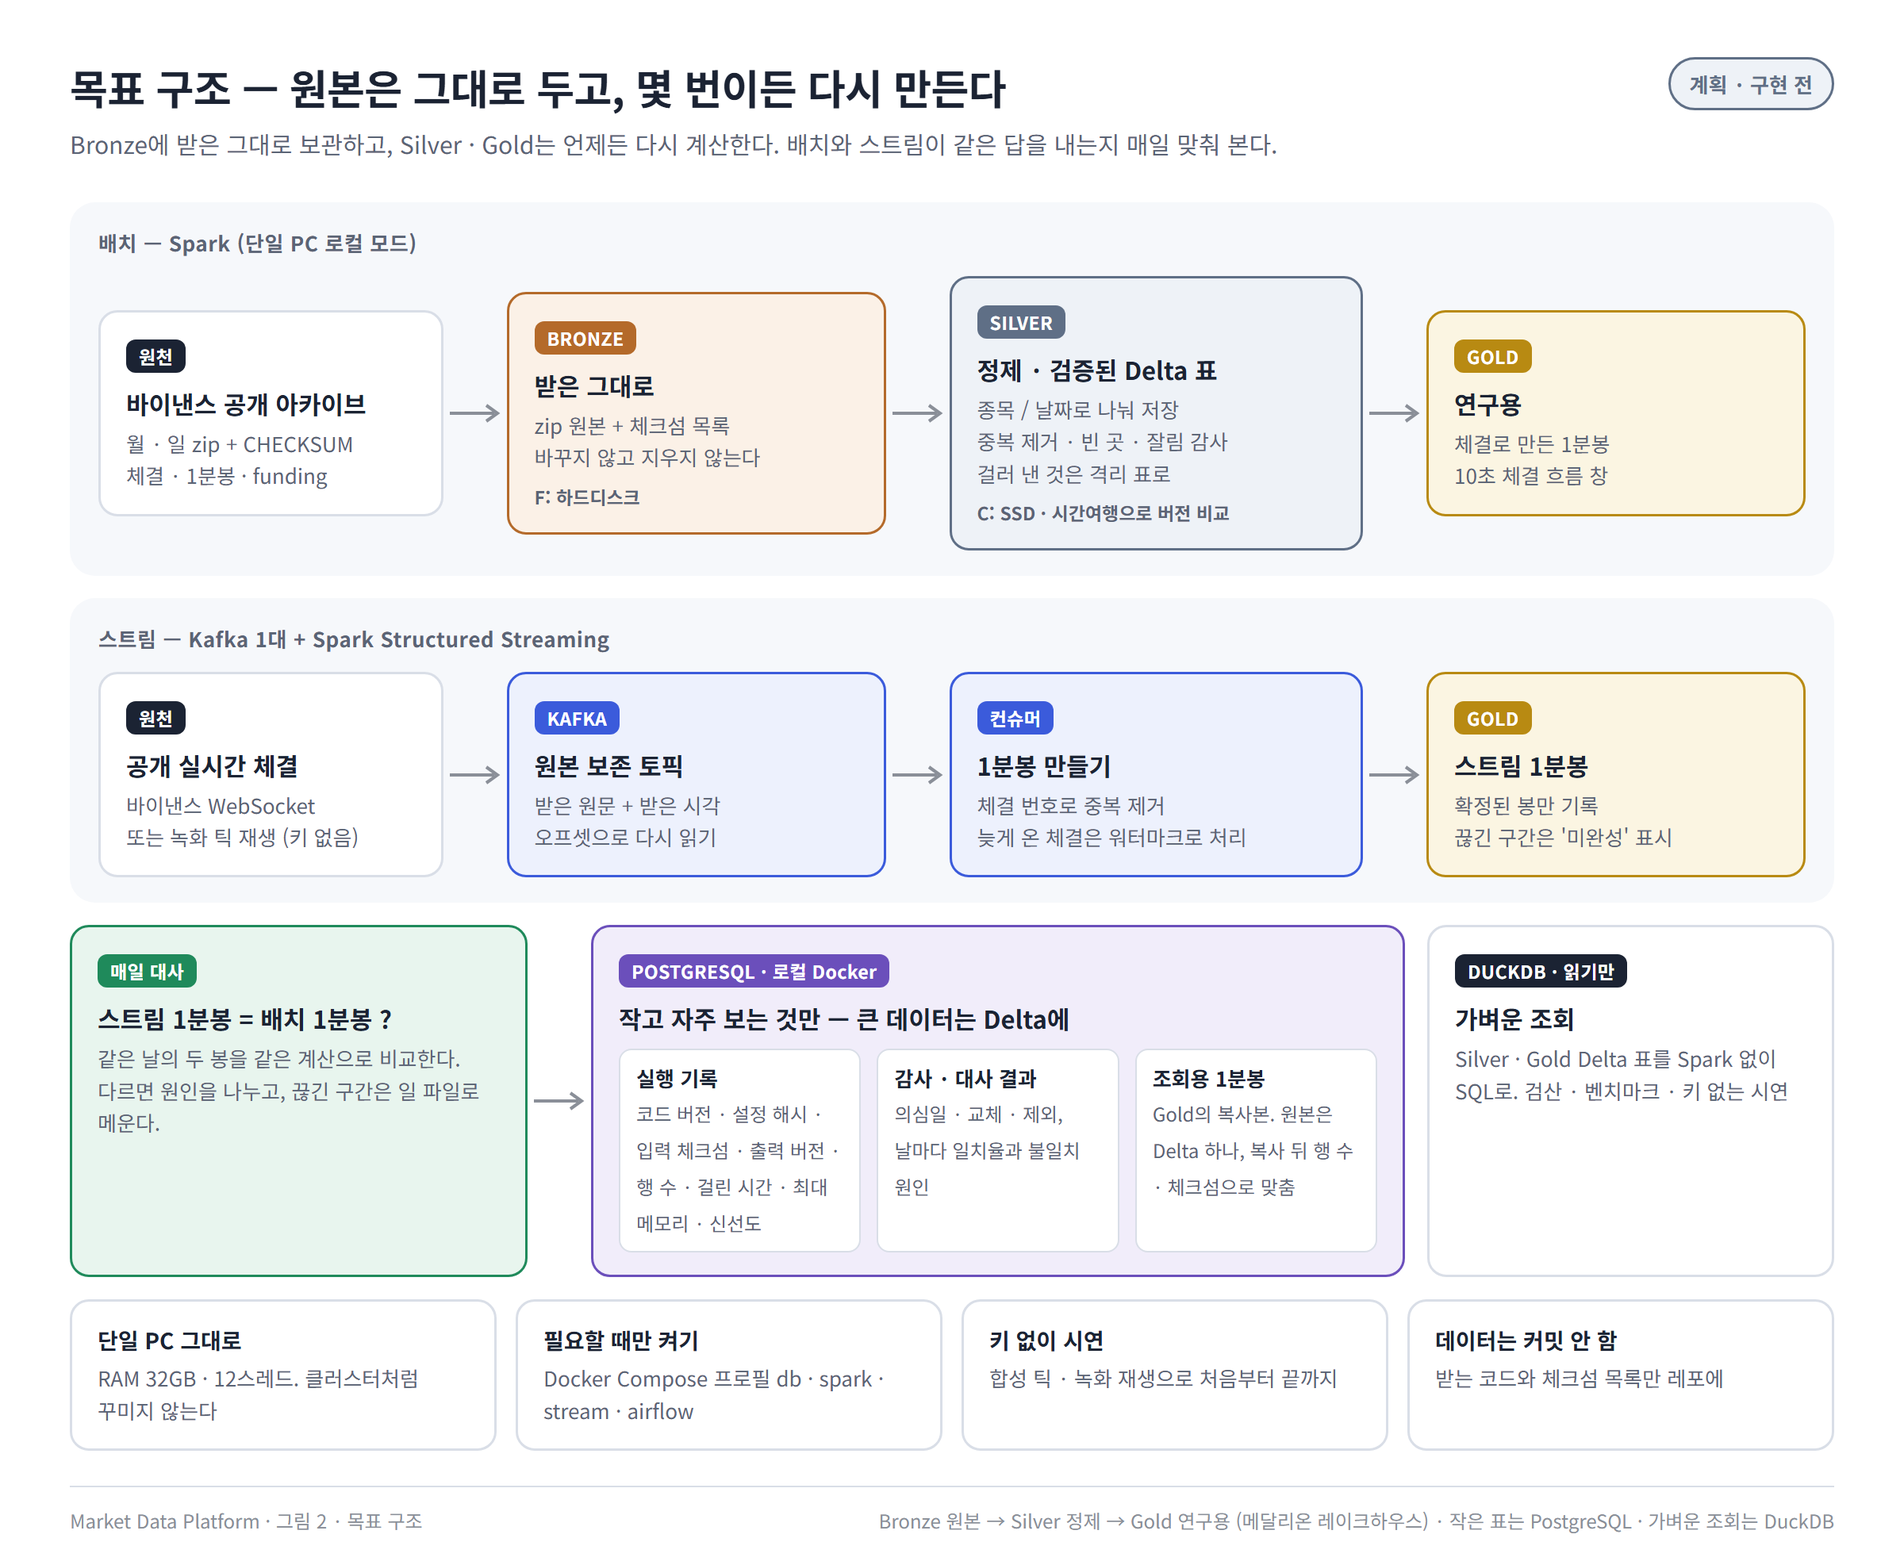
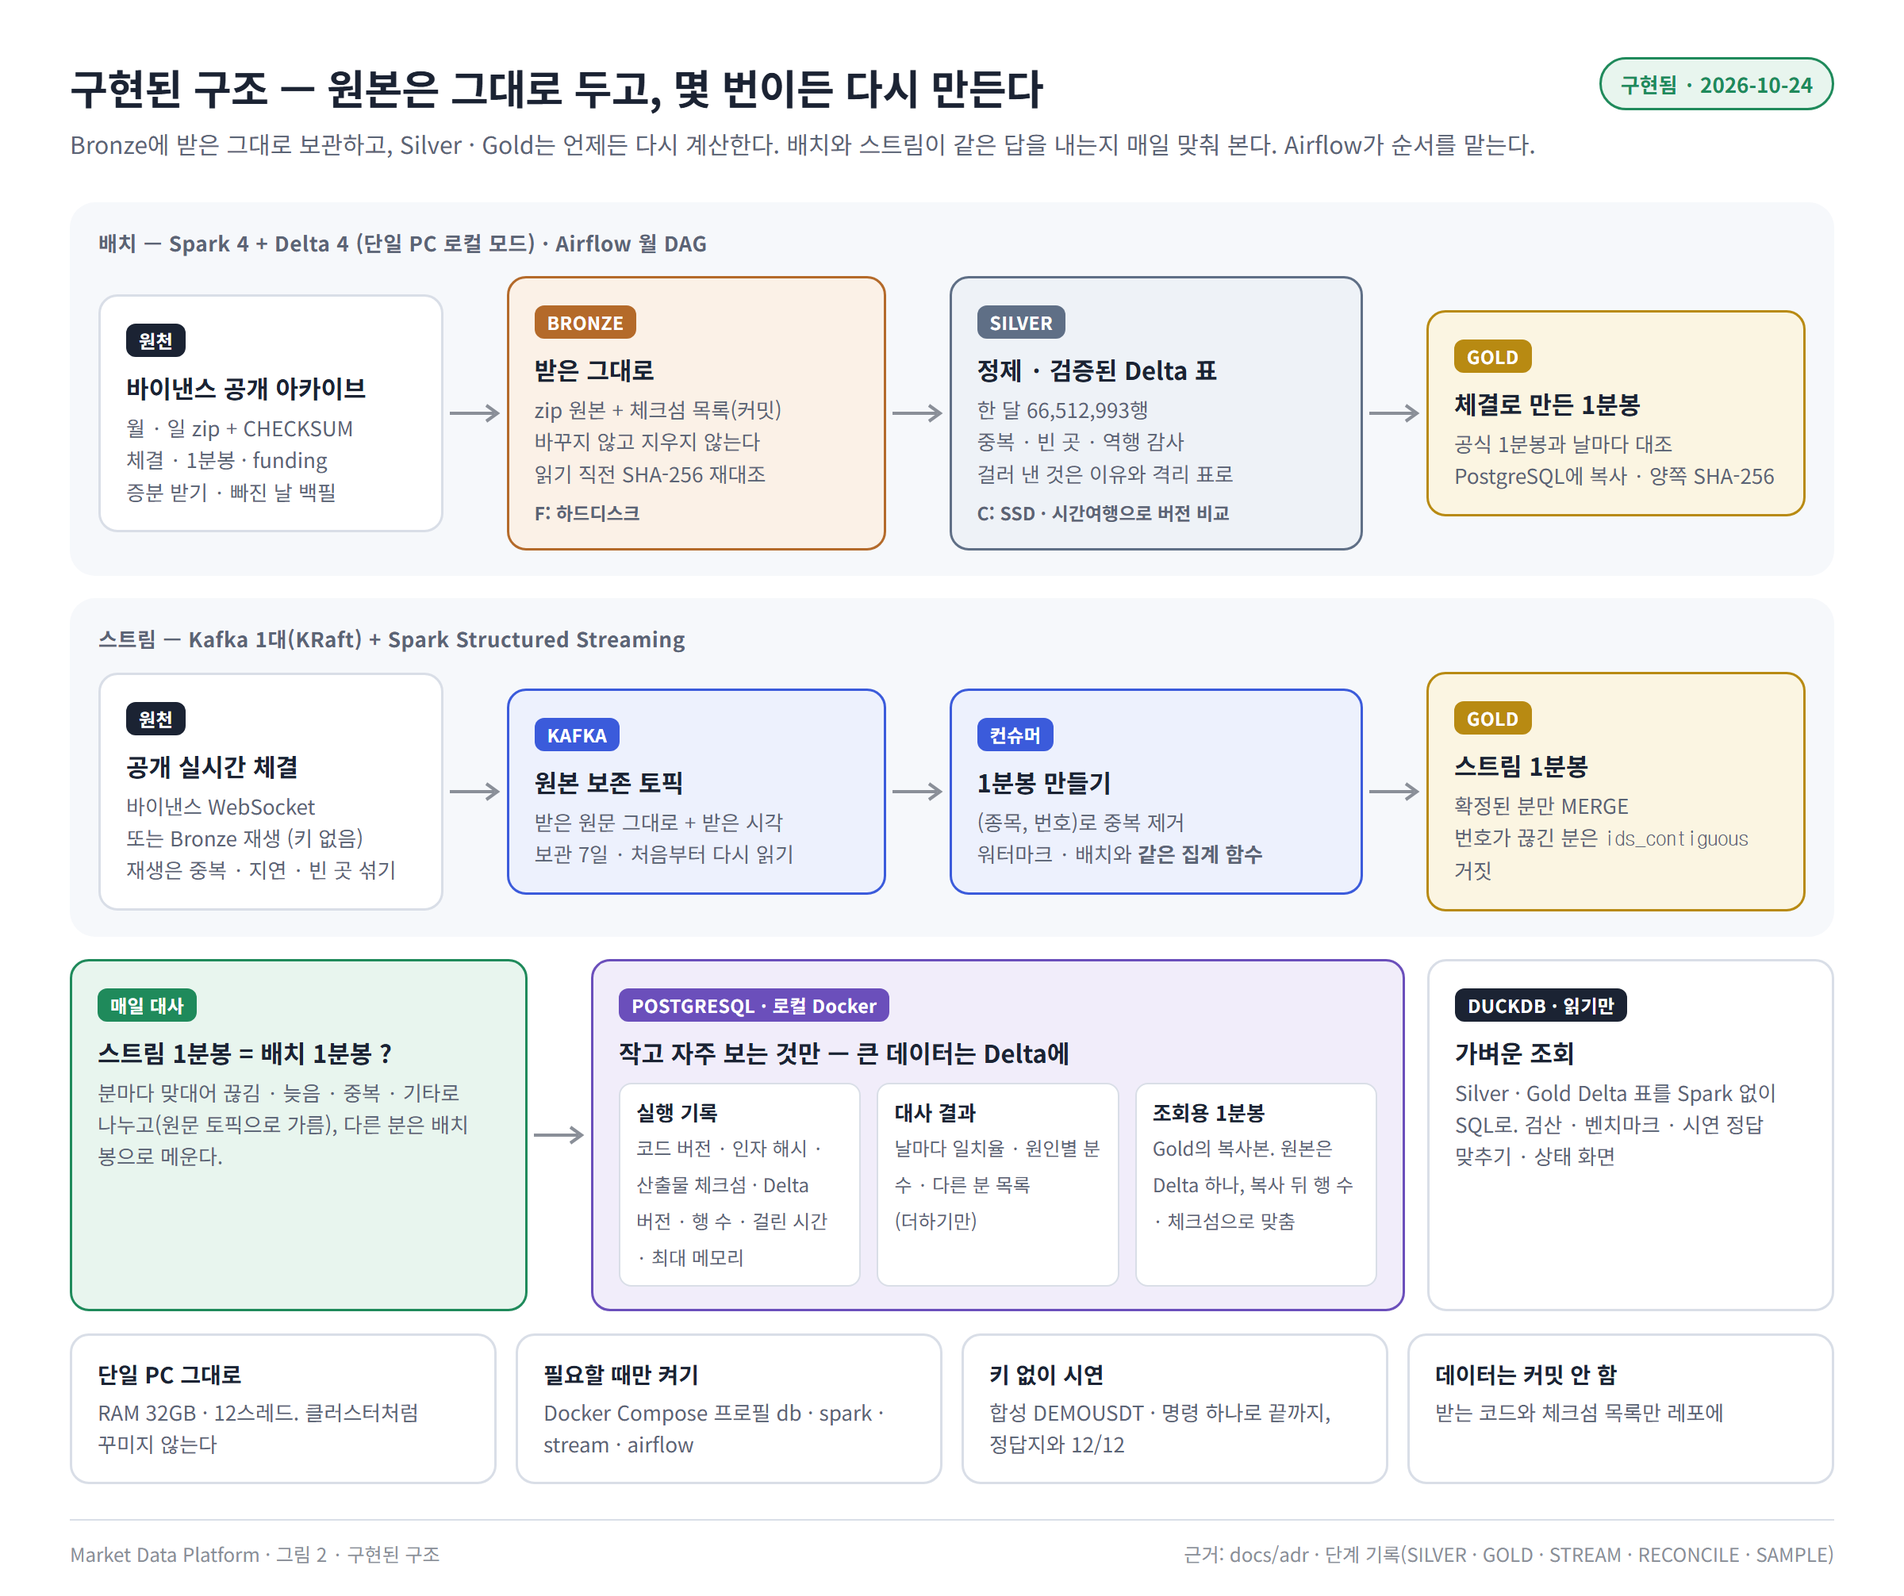
구조도 2·4를 구현된 내용으로 갱신
- 그림 2 (목표 구조 → 구현된 구조): Gold 에 없던 '10초 창' 빼고 공식 봉 대조 · PostgreSQL 복사, 스트림은
  (종목, 번호) 중복 제거 · 같은 집계 함수 · ids_contiguous, 대사 원인 4 가지, DuckDB 상태 화면, 키 없는 시연 12/12
- 그림 4 (대사): 원인을 원문 토픽으로 가르는 방식 · 메우기 · 시연 숫자(13,897 · 678), 근거 문서 고침
- 그림 4 를 docs/RECONCILE.md 에도

diff --git a/docs/diagrams/02_to_be.html b/docs/diagrams/02_to_be.html
@@ -18,60 +18,60 @@
 
   <div class="head">
     <div>
-      <h1>목표 구조 — 원본은 그대로 두고, 몇 번이든 다시 만든다</h1>
-      <p>Bronze에 받은 그대로 보관하고, Silver · Gold는 언제든 다시 계산한다. 배치와 스트림이 같은 답을 내는지 매일 맞춰 본다.</p>
+      <h1>구현된 구조 — 원본은 그대로 두고, 몇 번이든 다시 만든다</h1>
+      <p>Bronze에 받은 그대로 보관하고, Silver · Gold는 언제든 다시 계산한다. 배치와 스트림이 같은 답을 내는지 매일 맞춰 본다. Airflow가 순서를 맡는다.</p>
     </div>
-    <span class="badge plan">계획 · 구현 전</span>
+    <span class="badge done">구현됨 · 2026-10-24</span>
   </div>
 
   <div class="lanes">
     <div class="lane">
-      <div class="lane-title">배치 — Spark (단일 PC 로컬 모드)</div>
+      <div class="lane-title">배치 — Spark 4 + Delta 4 (단일 PC 로컬 모드) · Airflow 월 DAG</div>
       <div class="row">
-        <div class="box plain"><span class="tag">원천</span><h3>바이낸스 공개 아카이브</h3><p>월 · 일 zip + CHECKSUM<br>체결 · 1분봉 · funding</p></div>
+        <div class="box plain"><span class="tag">원천</span><h3>바이낸스 공개 아카이브</h3><p>월 · 일 zip + CHECKSUM<br>체결 · 1분봉 · funding<br>증분 받기 · 빠진 날 백필</p></div>
         <div class="arrow"><svg width="36" height="16"><path d="M2 8h28" stroke="#8a8f98" stroke-width="2"/><path d="M25 3l7 5-7 5" fill="none" stroke="#8a8f98" stroke-width="2"/></svg></div>
-        <div class="box bronze"><span class="tag">BRONZE</span><h3>받은 그대로</h3><p>zip 원본 + 체크섬 목록<br>바꾸지 않고 지우지 않는다</p><div class="where">F: 하드디스크</div></div>
+        <div class="box bronze"><span class="tag">BRONZE</span><h3>받은 그대로</h3><p>zip 원본 + 체크섬 목록(커밋)<br>바꾸지 않고 지우지 않는다<br>읽기 직전 SHA-256 재대조</p><div class="where">F: 하드디스크</div></div>
         <div class="arrow"><svg width="36" height="16"><path d="M2 8h28" stroke="#8a8f98" stroke-width="2"/><path d="M25 3l7 5-7 5" fill="none" stroke="#8a8f98" stroke-width="2"/></svg></div>
-        <div class="box silver"><span class="tag">SILVER</span><h3>정제 · 검증된 Delta 표</h3><p>종목 / 날짜로 나눠 저장<br>중복 제거 · 빈 곳 · 잘림 감사<br>걸러 낸 것은 격리 표로</p><div class="where">C: SSD · 시간여행으로 버전 비교</div></div>
+        <div class="box silver"><span class="tag">SILVER</span><h3>정제 · 검증된 Delta 표</h3><p>한 달 66,512,993행<br>중복 · 빈 곳 · 역행 감사<br>걸러 낸 것은 이유와 격리 표로</p><div class="where">C: SSD · 시간여행으로 버전 비교</div></div>
         <div class="arrow"><svg width="36" height="16"><path d="M2 8h28" stroke="#8a8f98" stroke-width="2"/><path d="M25 3l7 5-7 5" fill="none" stroke="#8a8f98" stroke-width="2"/></svg></div>
-        <div class="box gold"><span class="tag">GOLD</span><h3>연구용</h3><p>체결로 만든 1분봉<br>10초 체결 흐름 창</p></div>
+        <div class="box gold"><span class="tag">GOLD</span><h3>체결로 만든 1분봉</h3><p>공식 1분봉과 날마다 대조<br>PostgreSQL에 복사 · 양쪽 SHA-256</p></div>
       </div>
     </div>
 
     <div class="lane">
-      <div class="lane-title">스트림 — Kafka 1대 + Spark Structured Streaming</div>
+      <div class="lane-title">스트림 — Kafka 1대(KRaft) + Spark Structured Streaming</div>
       <div class="row">
-        <div class="box plain"><span class="tag">원천</span><h3>공개 실시간 체결</h3><p>바이낸스 WebSocket<br>또는 녹화 틱 재생 (키 없음)</p></div>
+        <div class="box plain"><span class="tag">원천</span><h3>공개 실시간 체결</h3><p>바이낸스 WebSocket<br>또는 Bronze 재생 (키 없음)<br>재생은 중복 · 지연 · 빈 곳 섞기</p></div>
         <div class="arrow"><svg width="36" height="16"><path d="M2 8h28" stroke="#8a8f98" stroke-width="2"/><path d="M25 3l7 5-7 5" fill="none" stroke="#8a8f98" stroke-width="2"/></svg></div>
-        <div class="box stream"><span class="tag">KAFKA</span><h3>원본 보존 토픽</h3><p>받은 원문 + 받은 시각<br>오프셋으로 다시 읽기</p></div>
+        <div class="box stream"><span class="tag">KAFKA</span><h3>원본 보존 토픽</h3><p>받은 원문 그대로 + 받은 시각<br>보관 7일 · 처음부터 다시 읽기</p></div>
         <div class="arrow"><svg width="36" height="16"><path d="M2 8h28" stroke="#8a8f98" stroke-width="2"/><path d="M25 3l7 5-7 5" fill="none" stroke="#8a8f98" stroke-width="2"/></svg></div>
-        <div class="box stream"><span class="tag">컨슈머</span><h3>1분봉 만들기</h3><p>체결 번호로 중복 제거<br>늦게 온 체결은 워터마크로 처리</p></div>
+        <div class="box stream"><span class="tag">컨슈머</span><h3>1분봉 만들기</h3><p>(종목, 번호)로 중복 제거<br>워터마크 · 배치와 <b>같은 집계 함수</b></p></div>
         <div class="arrow"><svg width="36" height="16"><path d="M2 8h28" stroke="#8a8f98" stroke-width="2"/><path d="M25 3l7 5-7 5" fill="none" stroke="#8a8f98" stroke-width="2"/></svg></div>
-        <div class="box gold"><span class="tag">GOLD</span><h3>스트림 1분봉</h3><p>확정된 봉만 기록<br>끊긴 구간은 '미완성' 표시</p></div>
+        <div class="box gold"><span class="tag">GOLD</span><h3>스트림 1분봉</h3><p>확정된 분만 MERGE<br>번호가 끊긴 분은 <code>ids_contiguous</code> 거짓</p></div>
       </div>
     </div>
   </div>
 
   <div class="meet">
-    <div class="box okbox"><span class="tag">매일 대사</span><h3>스트림 1분봉 = 배치 1분봉 ?</h3><p>같은 날의 두 봉을 같은 계산으로 비교한다. 다르면 원인을 나누고, 끊긴 구간은 일 파일로 메운다.</p></div>
+    <div class="box okbox"><span class="tag">매일 대사</span><h3>스트림 1분봉 = 배치 1분봉 ?</h3><p>분마다 맞대어 끊김 · 늦음 · 중복 · 기타로 나누고(원문 토픽으로 가름), 다른 분은 배치 봉으로 메운다.</p></div>
     <div class="arrow"><svg width="36" height="16"><path d="M2 8h28" stroke="#8a8f98" stroke-width="2"/><path d="M25 3l7 5-7 5" fill="none" stroke="#8a8f98" stroke-width="2"/></svg></div>
     <div class="box dbbox"><span class="tag">POSTGRESQL · 로컬 Docker</span><h3>작고 자주 보는 것만 — 큰 데이터는 Delta에</h3>
       <div class="dbgrid">
-        <div><b>실행 기록</b><span>코드 버전 · 설정 해시 · 입력 체크섬 · 출력 버전 · 행 수 · 걸린 시간 · 최대 메모리 · 신선도</span></div>
-        <div><b>감사 · 대사 결과</b><span>의심일 · 교체 · 제외, 날마다 일치율과 불일치 원인</span></div>
+        <div><b>실행 기록</b><span>코드 버전 · 인자 해시 · 산출물 체크섬 · Delta 버전 · 행 수 · 걸린 시간 · 최대 메모리</span></div>
+        <div><b>대사 결과</b><span>날마다 일치율 · 원인별 분 수 · 다른 분 목록 (더하기만)</span></div>
         <div><b>조회용 1분봉</b><span>Gold의 복사본. 원본은 Delta 하나, 복사 뒤 행 수 · 체크섬으로 맞춤</span></div>
       </div>
     </div>
     <div></div>
-    <div class="box plain"><span class="tag">DUCKDB · 읽기만</span><h3>가벼운 조회</h3><p>Silver · Gold Delta 표를 Spark 없이 SQL로. 검산 · 벤치마크 · 키 없는 시연</p></div>
+    <div class="box plain"><span class="tag">DUCKDB · 읽기만</span><h3>가벼운 조회</h3><p>Silver · Gold Delta 표를 Spark 없이 SQL로. 검산 · 벤치마크 · 시연 정답 맞추기 · 상태 화면</p></div>
   </div>
 
   <div class="strip">
     <div class="box"><h3>단일 PC 그대로</h3><p>RAM 32GB · 12스레드. 클러스터처럼 꾸미지 않는다</p></div>
     <div class="box"><h3>필요할 때만 켜기</h3><p>Docker Compose 프로필 db · spark · stream · airflow</p></div>
-    <div class="box"><h3>키 없이 시연</h3><p>합성 틱 · 녹화 재생으로 처음부터 끝까지</p></div>
+    <div class="box"><h3>키 없이 시연</h3><p>합성 DEMOUSDT · 명령 하나로 끝까지, 정답지와 12/12</p></div>
     <div class="box"><h3>데이터는 커밋 안 함</h3><p>받는 코드와 체크섬 목록만 레포에</p></div>
   </div>
 
-  <div class="foot"><span>Market Data Platform · 그림 2 · 목표 구조</span><span>Bronze 원본 → Silver 정제 → Gold 연구용 (메달리온 레이크하우스) · 작은 표는 PostgreSQL · 가벼운 조회는 DuckDB</span></div>
+  <div class="foot"><span>Market Data Platform · 그림 2 · 구현된 구조</span><span>근거: docs/adr · 단계 기록(SILVER · GOLD · STREAM · RECONCILE · SAMPLE)</span></div>
 </div></body></html>

diff --git a/docs/diagrams/04_reconcile.html b/docs/diagrams/04_reconcile.html
@@ -17,12 +17,12 @@
       <h1>스트림 봉 = 배치 봉 대사 — 끊겨도 정확히 알아채고 메운다</h1>
       <p>PC가 항상 켜져 있지 않으니 스트림은 반드시 끊긴다. 그래서 목표는 '24시간 무중단'이 아니라 '빈 곳을 정확히 찾아 메우기'다.</p>
     </div>
-    <span class="badge plan">계획 · 구현 전</span>
+    <span class="badge done">구현됨 · 5-2</span>
   </div>
 
   <div class="grid">
     <div class="col">
-      <div class="box stream"><span class="tag">스트림</span><h3>D일 스트림 1분봉</h3><p>Kafka → 실시간 집계<br>워터마크 지난 봉만 확정</p></div>
+      <div class="box stream"><span class="tag">스트림</span><h3>D일 스트림 1분봉</h3><p>Kafka 원문 토픽 → Structured Streaming<br>워터마크 지난 분만 확정</p></div>
       <div class="box silver"><span class="tag">배치</span><h3>D일 배치 1분봉</h3><p>Silver 체결 표(일 파일) →<br>스트림과 <b>같은 계산 함수</b></p></div>
     </div>
 
@@ -31,18 +31,18 @@
     <div class="box plain">
       <span class="tag">분마다 비교</span>
       <h3>완전히 같아야 한다</h3>
-      <div class="eq">시가 · 고가 · 저가 · 종가 = 정확히 같음<br>거래량 · 공격 매수량 = 소수점까지 같음<br>체결 수 = (마지막 번호 − 첫 번호 + 1) 합</div>
+      <div class="eq">시가 · 고가 · 저가 · 종가 = 정확히 같음<br>거래량 · 거래대금 · 공격 매수량 = 소수점까지 같음<br>체결 수 · 묶음 수 · 첫/끝 번호 = 같음 (12칸)</div>
     </div>
 
     <div class="arrow"><svg width="36" height="16"><path d="M2 8h28" stroke="#8a8f98" stroke-width="2"/><path d="M25 3l7 5-7 5" fill="none" stroke="#8a8f98" stroke-width="2"/></svg></div>
 
     <div class="col">
-      <div class="box okbox"><span class="tag">일치</span><h3>그대로 확정</h3><p>하루 일치율을 신선도와 함께 기록</p></div>
+      <div class="box okbox"><span class="tag">일치</span><h3>그대로 확정</h3><p>하루 일치율 · 원인별 분 수를 PostgreSQL에 (더하기만)</p></div>
       <div class="box badbox"><span class="tag">불일치 → 원인 나누기</span>
         <div class="causes">
-          <div class="cause"><b>스트림 빈 곳</b><span>체결 번호가 끊김 · PC 잠듦</span></div>
-          <div class="cause"><b>늦게 도착</b><span>워터마크 뒤에 온 체결</span></div>
-          <div class="cause"><b>중복</b><span>재연결 때 같은 체결 두 번</span></div>
+          <div class="cause"><b>끊김</b><span>빠진 번호가 원문 토픽에 없음 · PC 잠듦</span></div>
+          <div class="cause"><b>늦음</b><span>원문 토픽에는 있는데 워터마크 뒤라 버림</span></div>
+          <div class="cause"><b>중복</b><span>스트림이 배치보다 더 셈</span></div>
           <div class="cause"><b>기타</b><span>원인 미상 · 사람이 확인</span></div>
         </div>
       </div>
@@ -50,9 +50,9 @@
   </div>
 
   <div class="bottom">
-    <div class="box"><h3><span class="pill ok">✓</span>메우기</h3><p>빈 곳은 '미완성'으로 표시해 두고, 바이낸스 일 파일이 나오면 배치로 다시 계산해 바꿔 넣는다. 바꾼 기록은 Delta 버전으로 남는다.</p></div>
+    <div class="box"><h3><span class="pill ok">✓</span>메우기</h3><p>원인이 있는 분을 배치 봉으로 MERGE하고 '메움'으로 표시한다(일치율에는 넣지 않음). 바꾸기 전 봉은 Delta 이력에 남는다. 시연: 끊김 13,897건 = 재생이 건너뛴 13,897 · 늦음 678 = Spark가 버린 678.</p></div>
     <div class="box"><h3><span class="pill ink">!</span>공식 1분봉은 참고용</h3><p>공식 봉과는 분 경계 체결 배정이 달라 정확히 맞지 않는다. 연구 216에서 하루 1,440분 중 1,110분만 정확히 일치했다(합계는 같음).</p></div>
   </div>
 
-  <div class="foot"><span>Market Data Platform · 그림 4 · 스트림 · 배치 대사</span><span>근거: docs/research/216 §4.2 · scripts/paper_watchdog.py (PC가 꺼지는 시간)</span></div>
+  <div class="foot"><span>Market Data Platform · 그림 4 · 스트림 · 배치 대사</span><span>근거: docs/RECONCILE.md · docs/STREAM.md · docs/research/216 §4.2</span></div>
 </div></body></html>

diff --git a/README.md b/README.md
@@ -56,10 +56,9 @@ flowchart LR
 Airflow는 위 단계를 **평소와 같은 명령**으로 차례대로 부르고, 무거운 Spark 단계는 Spark 컨테이너를 따로 띄워
 돌린다([기록](docs/AIRFLOW.md)).
 
-목표 구조 전체(Gold · DuckDB · Kafka 스트림 · 매일 대사 포함)는 아래 그림입니다. 오른쪽 위에 '계획'으로
-표시돼 있고, 단계가 끝날 때마다 고칩니다.
+구현된 구조 전체(배치 · 스트림 · 매일 대사 · PostgreSQL · DuckDB)는 아래 그림입니다.
 
-![목표 구조](docs/diagrams/02_to_be.png)
+![구현된 구조](docs/diagrams/02_to_be.png)
 
 ## 2. 왜 만들었나
 

diff --git a/docs/diagrams/README.md b/docs/diagrams/README.md
@@ -5,9 +5,9 @@
 | 파일 | 그림 | 상태 표시 |
 |---|---|---|
 | `01_as_is.html` | 지금 구조 | 현재 상태 |
-| `02_to_be.html` | 목표 구조 | 계획 · 구현 전 |
+| `02_to_be.html` | 구현된 구조 (처음엔 목표 구조) | 구현됨 · 2026-10-24 |
 | `03_trade_audit.html` | 체결 데이터 품질 감사 | 구현됨 · 연구 216 |
-| `04_reconcile.html` | 스트림 · 배치 대사 | 계획 · 구현 전 |
+| `04_reconcile.html` | 스트림 · 배치 대사 | 구현됨 · 5-2 |
 
 ## 고치는 법
 

diff --git a/docs/RECONCILE.md b/docs/RECONCILE.md
@@ -6,6 +6,8 @@
 > 13,897, 늦어서 빠진 체결 678 = Spark가 워터마크로 버린 678).
 > 코드: [`src/mdp/reconcile/daily.py`](../src/mdp/reconcile/daily.py) · 표: [`005_reconcile.sql`](../src/mdp/runlog/sql/005_reconcile.sql)
 
+![스트림 · 배치 대사](diagrams/04_reconcile.png)
+
 ## 왜 필요한가
 
 PC가 늘 켜져 있지 않으니 스트림은 **반드시 끊긴다.** 그래서 목표는 '24시간 무중단'이 아니라 **빈 곳을 정확히
